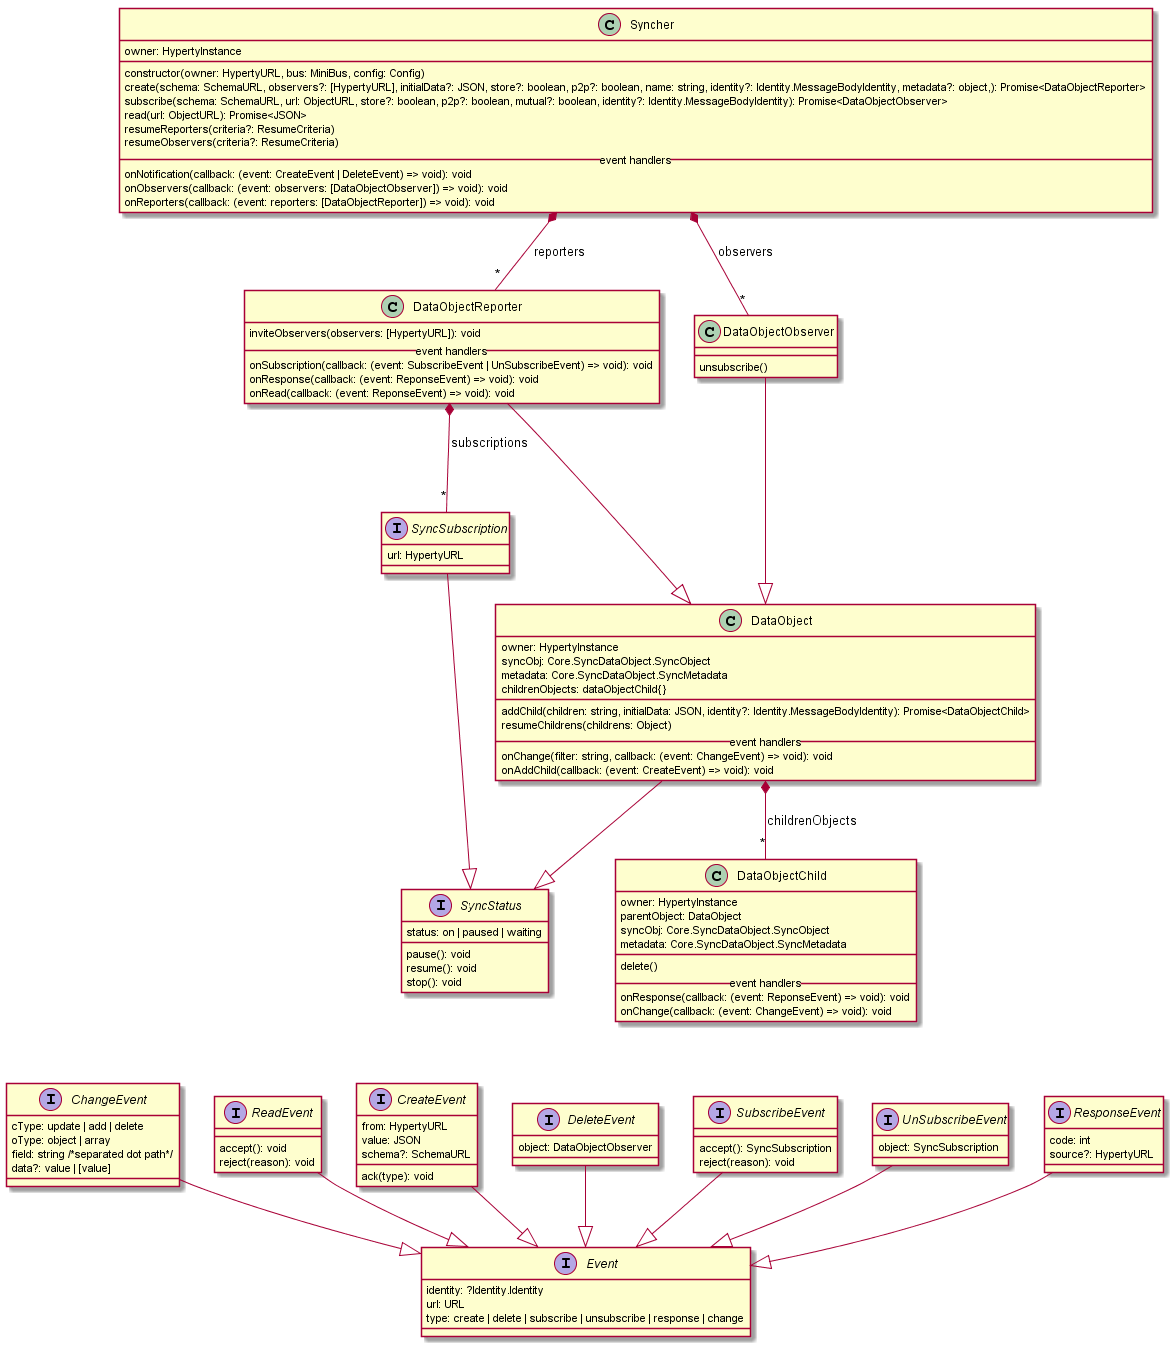
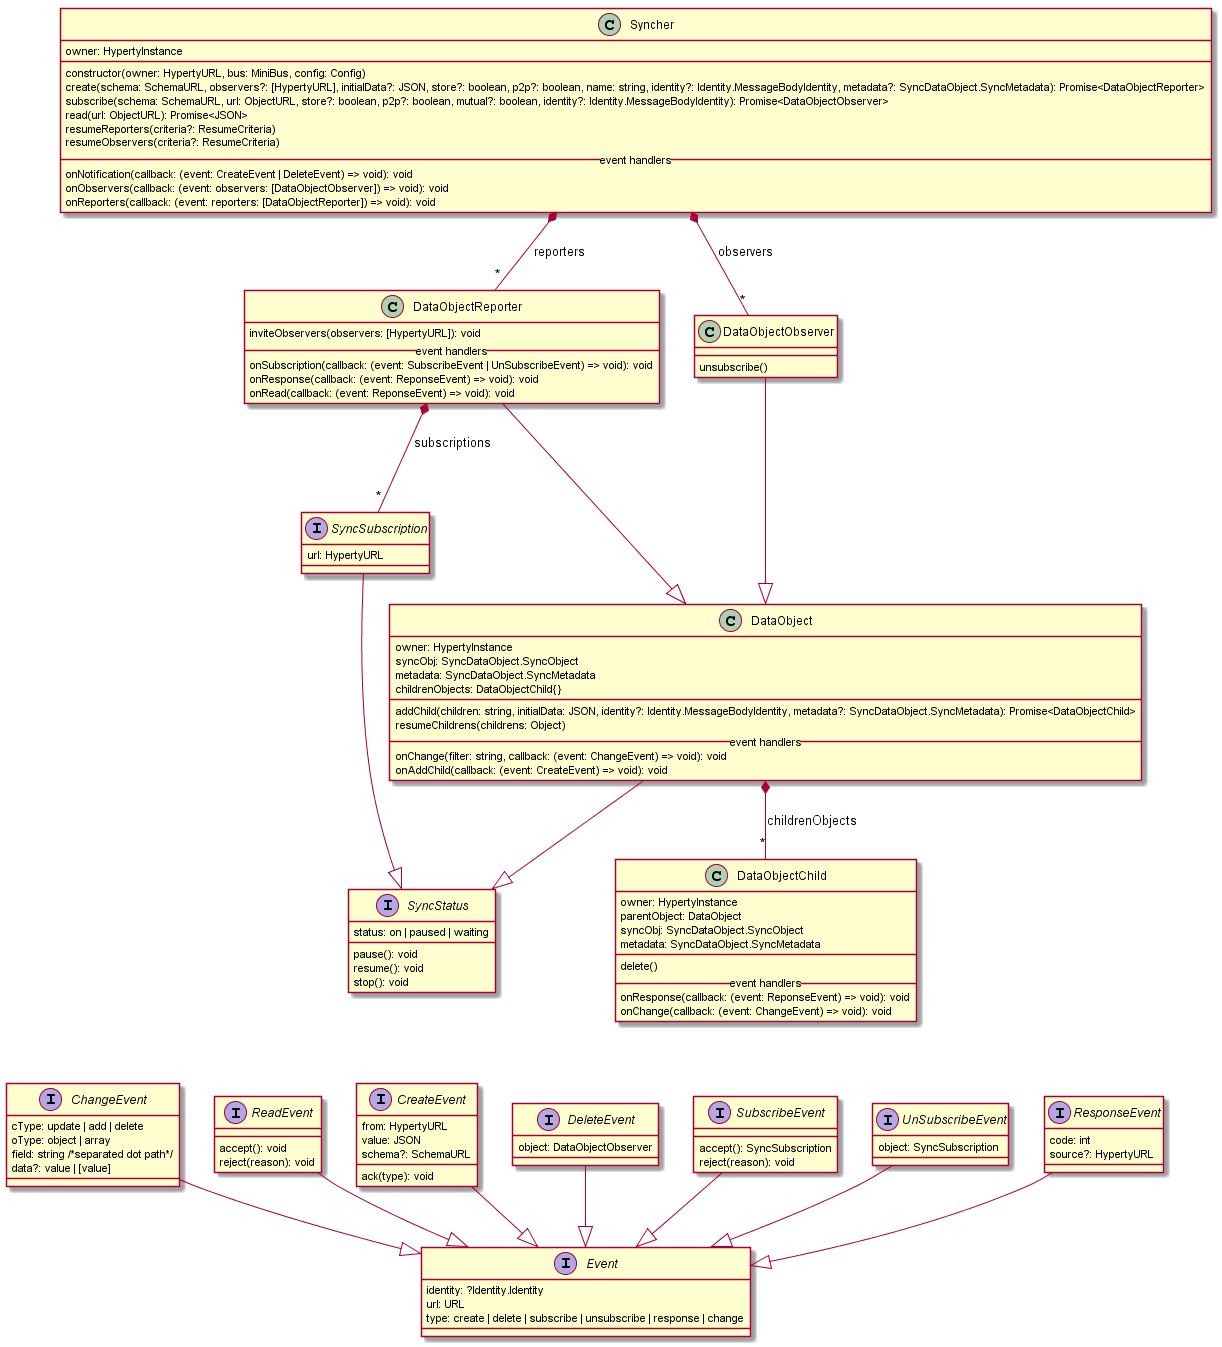
Syncher spec updated with more info and more aligned with implementation

diff --git a/service-framework/syncher.md b/service-framework/syncher.md
@@ -15,7 +15,7 @@ DataObjectReporter - provides functions to handle DataObjects as a Reporter i.e.
 
 DataObjectObserver - provides functions to handle DataObjects as a Observer i.e. it handles a "copy" of the original Data Object which is updated as soon as the Reporter changes. Changes on the DataObject are notified to the Hyperty Instance Observers.
 
-In addition, DataObjects can be SyncObjectParents with collections of DataObjectChild. Each collection is called DataObjectChildren. Either Reporter (DataObjectReporter) or Observers (DataObjectObserver) can create DataObjectChilds in a certain children collection (`addChild()` function).
+In addition, DataObjects can handle  Children Object with collections of DataObjectChild. Either Reporter (DataObjectReporter) or Observers (DataObjectObserver) can create DataObjectChilds in a certain children collection (`addChild()` function).
 
 ### Syncher API
 
@@ -45,7 +45,7 @@ Syncher is created one per Hyperty. The parameters are basically the same as the
 
 **create**
 
-`create(schema: SchemaURL, observers?: [HypertyURL], initialData: JSON, store?: boolean, p2p?: boolean, identity?: Identity.MessageBodyIdentity): Promise<DataObjectReporter>`
+`create(schema: SchemaURL, observers?: [HypertyURL], initialData?: JSON, store?: boolean, p2p?: boolean, name: string, identity?: Identity.MessageBodyIdentity, metadata?: SyncDataObject.SyncMetadata): Promise<DataObjectReporter>`
 
 This Method is used to create objects to be reported i.e. the Hyperty Instance plays the Reporter role. The following parameters are used:
 
@@ -59,13 +59,17 @@ This Method is used to create objects to be reported i.e. the Hyperty Instance p
 
 * p2p (optional): if true the object data sync uses p2p data connections.
 
+* name (optional): the mandatory name of the Data Object. If not present, a default `data object without name` will be given
+
 * identity (optional): information about the identity of the user associated with the Reporter. Useful when the reporter is used in an [Interworking Protostub](../legacy-interworking/interworking-stubs-development.md).
+
+* metadata (optional): all remaining optional metadata about the Data Object
 
 * return: Promise to a new Reporter. The reporter can be accepted or rejected by the PEP
 
 **subscribe**
 
-`subscribe(schema: SchemaURL, url: ObjectURL, store?: boolean, p2p?: boolean, identity?: Identity.MessageBodyIdentity): Promise<DataObjectObserver>`
+`subscribe(schema: SchemaURL, url: ObjectURL, store?: boolean, p2p?: boolean, mutual?: boolean, identity?: Identity.MessageBodyIdentity): Promise<DataObjectObserver>`
 
 This Method is used to subscribe objects to be observed i.e. the Hyperty Instance plays the Observer role. The following parameters are used:
 
